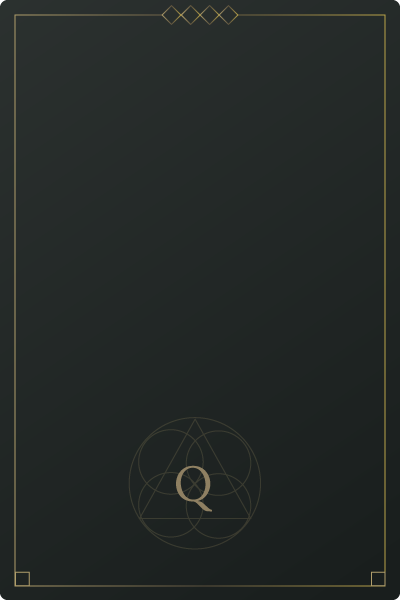
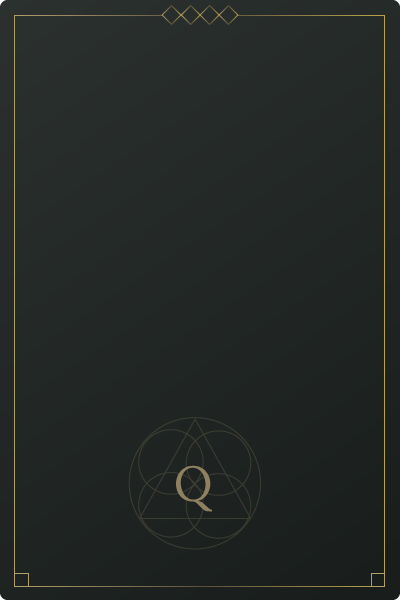
- Final touchups, hires export, img naming,cleanup

Changed region(s): [[0.03, 0.0, 0.99, 0.99], [0.6, 0.0, 0.96, 0.03]]

diff --git a/src/app/services/number-generator/number-generator.service.ts b/src/app/services/number-generator/number-generator.service.ts
@@ -50,7 +50,7 @@ export class NumberGeneratorService {
     } else {
       this.cominationArray.push(this.combinedResult);
       this.resultAmount++;
-      if(this.resultAmount == 2){
+      if(this.resultAmount == 7){
         this.splitCombination(this.cominationArray);
       }
       this.combinedResult = '';
@@ -82,6 +82,9 @@ export class NumberGeneratorService {
         if((index % 4) === 0 && index === 4) {
           if(this.isQuest) {
             outcome = this.generateOutcome(valueArray[2], valueArray[3]);
+            if(valueArray[3] === 1 && outcome === true) {
+              console.log('WE FOUND A LEGENDARY BOSS VICTORY!!!!!!!');
+            }
             this.numberCombinations.push(valueArray);
             this.numberCombinations.push([outcome, valueArray[2], valueArray[3]]);
           } else {
@@ -119,8 +122,7 @@ export class NumberGeneratorService {
         index === 1 ? nftInfo.Surroundings = enumList2[rarityNumber] : '';
         index === 2 ? nftInfo.Enemies = enumList3[rarityNumber] : '';
         index === 3 ? nftInfo.Boss = enumList4[rarityNumber] : '';
-        //console.log(rarityNumber);
-        //console.log(nftInfo);
+
         nftInfo.Combo = combo;
 
         if(index === (combo.length - 1)){
@@ -128,7 +130,6 @@ export class NumberGeneratorService {
           nftInfo = {
 
           };
-          //console.log("Combo: ", combo, "DinoInfo: ", dinoInfoArray);
         }
       });
     });
@@ -149,8 +150,6 @@ export class NumberGeneratorService {
     newPercentage = (parseFloat(enemyPercentage) + parseFloat(bossPercentage)) / 2;
     outcome = Math.random() < newPercentage;
 
-    console.log(enemyPercentage, bossPercentage, newPercentage, outcome);
-    //console.log('Outcome is - ', outcome);
     return outcome;
   }
 

diff --git a/src/app/services/download-image/download-image.service.ts b/src/app/services/download-image/download-image.service.ts
@@ -37,11 +37,24 @@ export class DownloadImageService {
   }
 
   public getNumberCombo(index: number): string {
+    if(this.numberGeneratorService.numberCombinations[index][0] === true){
+      this.numberGeneratorService.numberCombinations[index][0] = 'victory';
+    } else if (this.numberGeneratorService.numberCombinations[index][0] === false) {
+      this.numberGeneratorService.numberCombinations[index][0] = 'defeat';
+    }
     return this.numberGeneratorService.numberCombinations[index].join("-");
   }
 
   public screenGrab(htmlElement: HTMLElement, numberCombo: string, currentElementIndex: number) {
-    html2canvas(htmlElement, {removeContainer: true, backgroundColor: "rgba(0,0,0,0)", foreignObjectRendering: false }).then((canvas:any) => {
+    let options = {
+      removeContainer: true, 
+      backgroundColor: "rgba(0,0,0,0)", 
+      foreignObjectRendering: false,
+      scale: 2,
+      dpi: 144
+    }
+
+    html2canvas(htmlElement, options).then((canvas:any) => {
       let ctx = canvas.getContext('2d');
 
       ctx.webkitImageSmoothingEnabled = true;
@@ -49,7 +62,8 @@ export class DownloadImageService {
       ctx.imageSmoothingEnabled = true;
 
       this.updateCanvas(currentElementIndex, canvas.toDataURL());
-      this.updateDownloadLinks(currentElementIndex, canvas.toDataURL('image/png'), 'dino' + numberCombo + '.png');
+      console.log(numberCombo);
+      this.updateDownloadLinks(currentElementIndex, canvas.toDataURL('image/png'), 'quest-' + numberCombo + '.png');
 
       ctx.clearRect(0, 0, canvas.width, canvas.height)
     });
